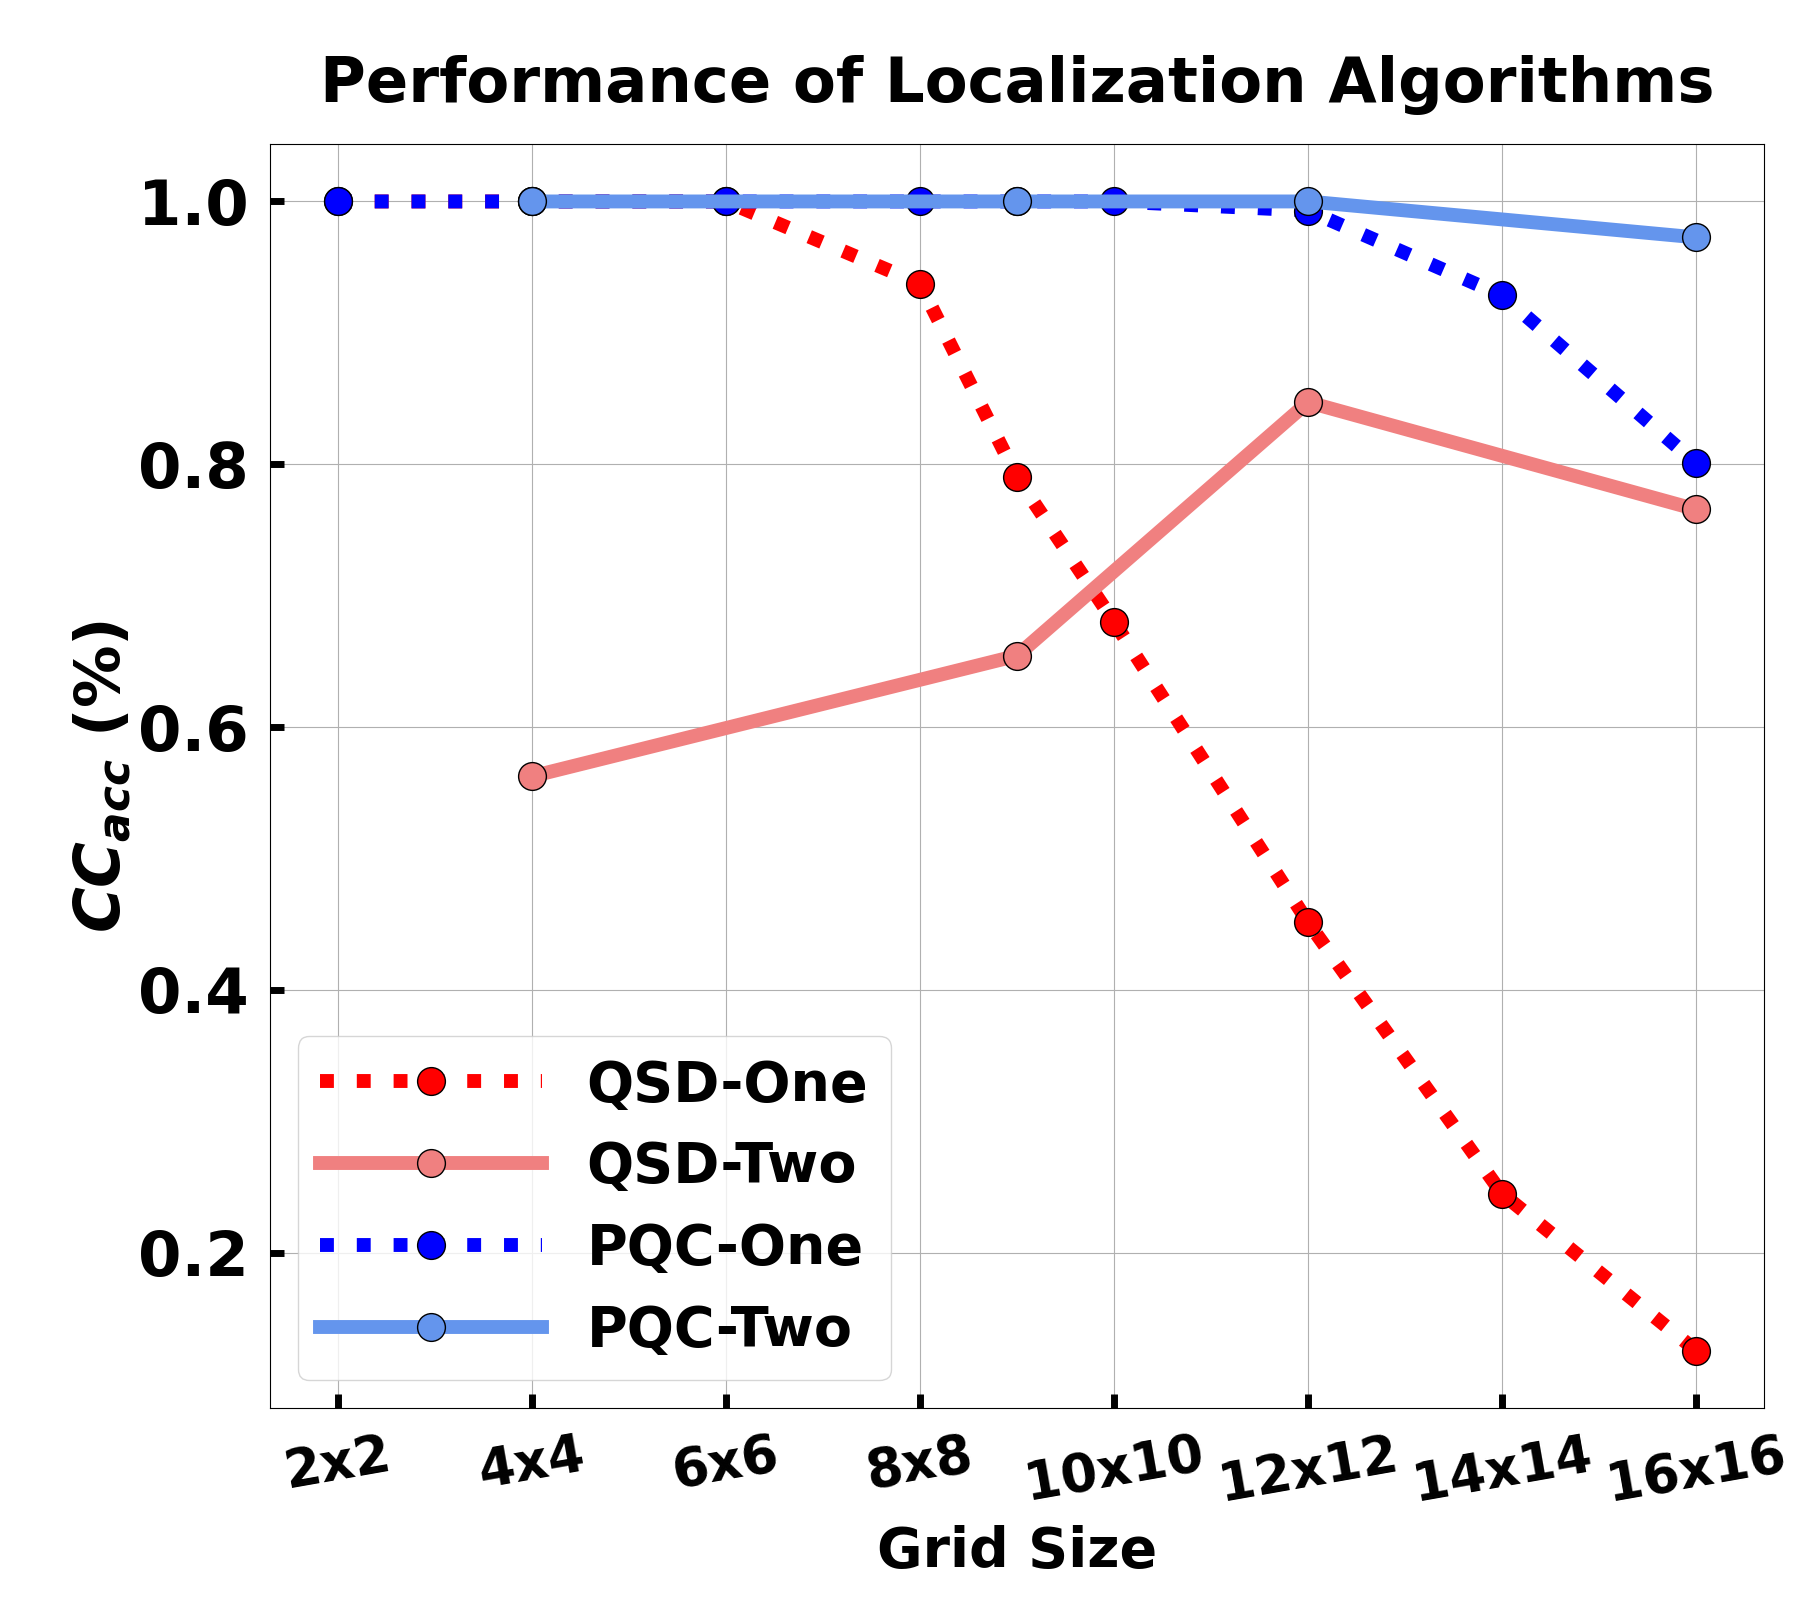
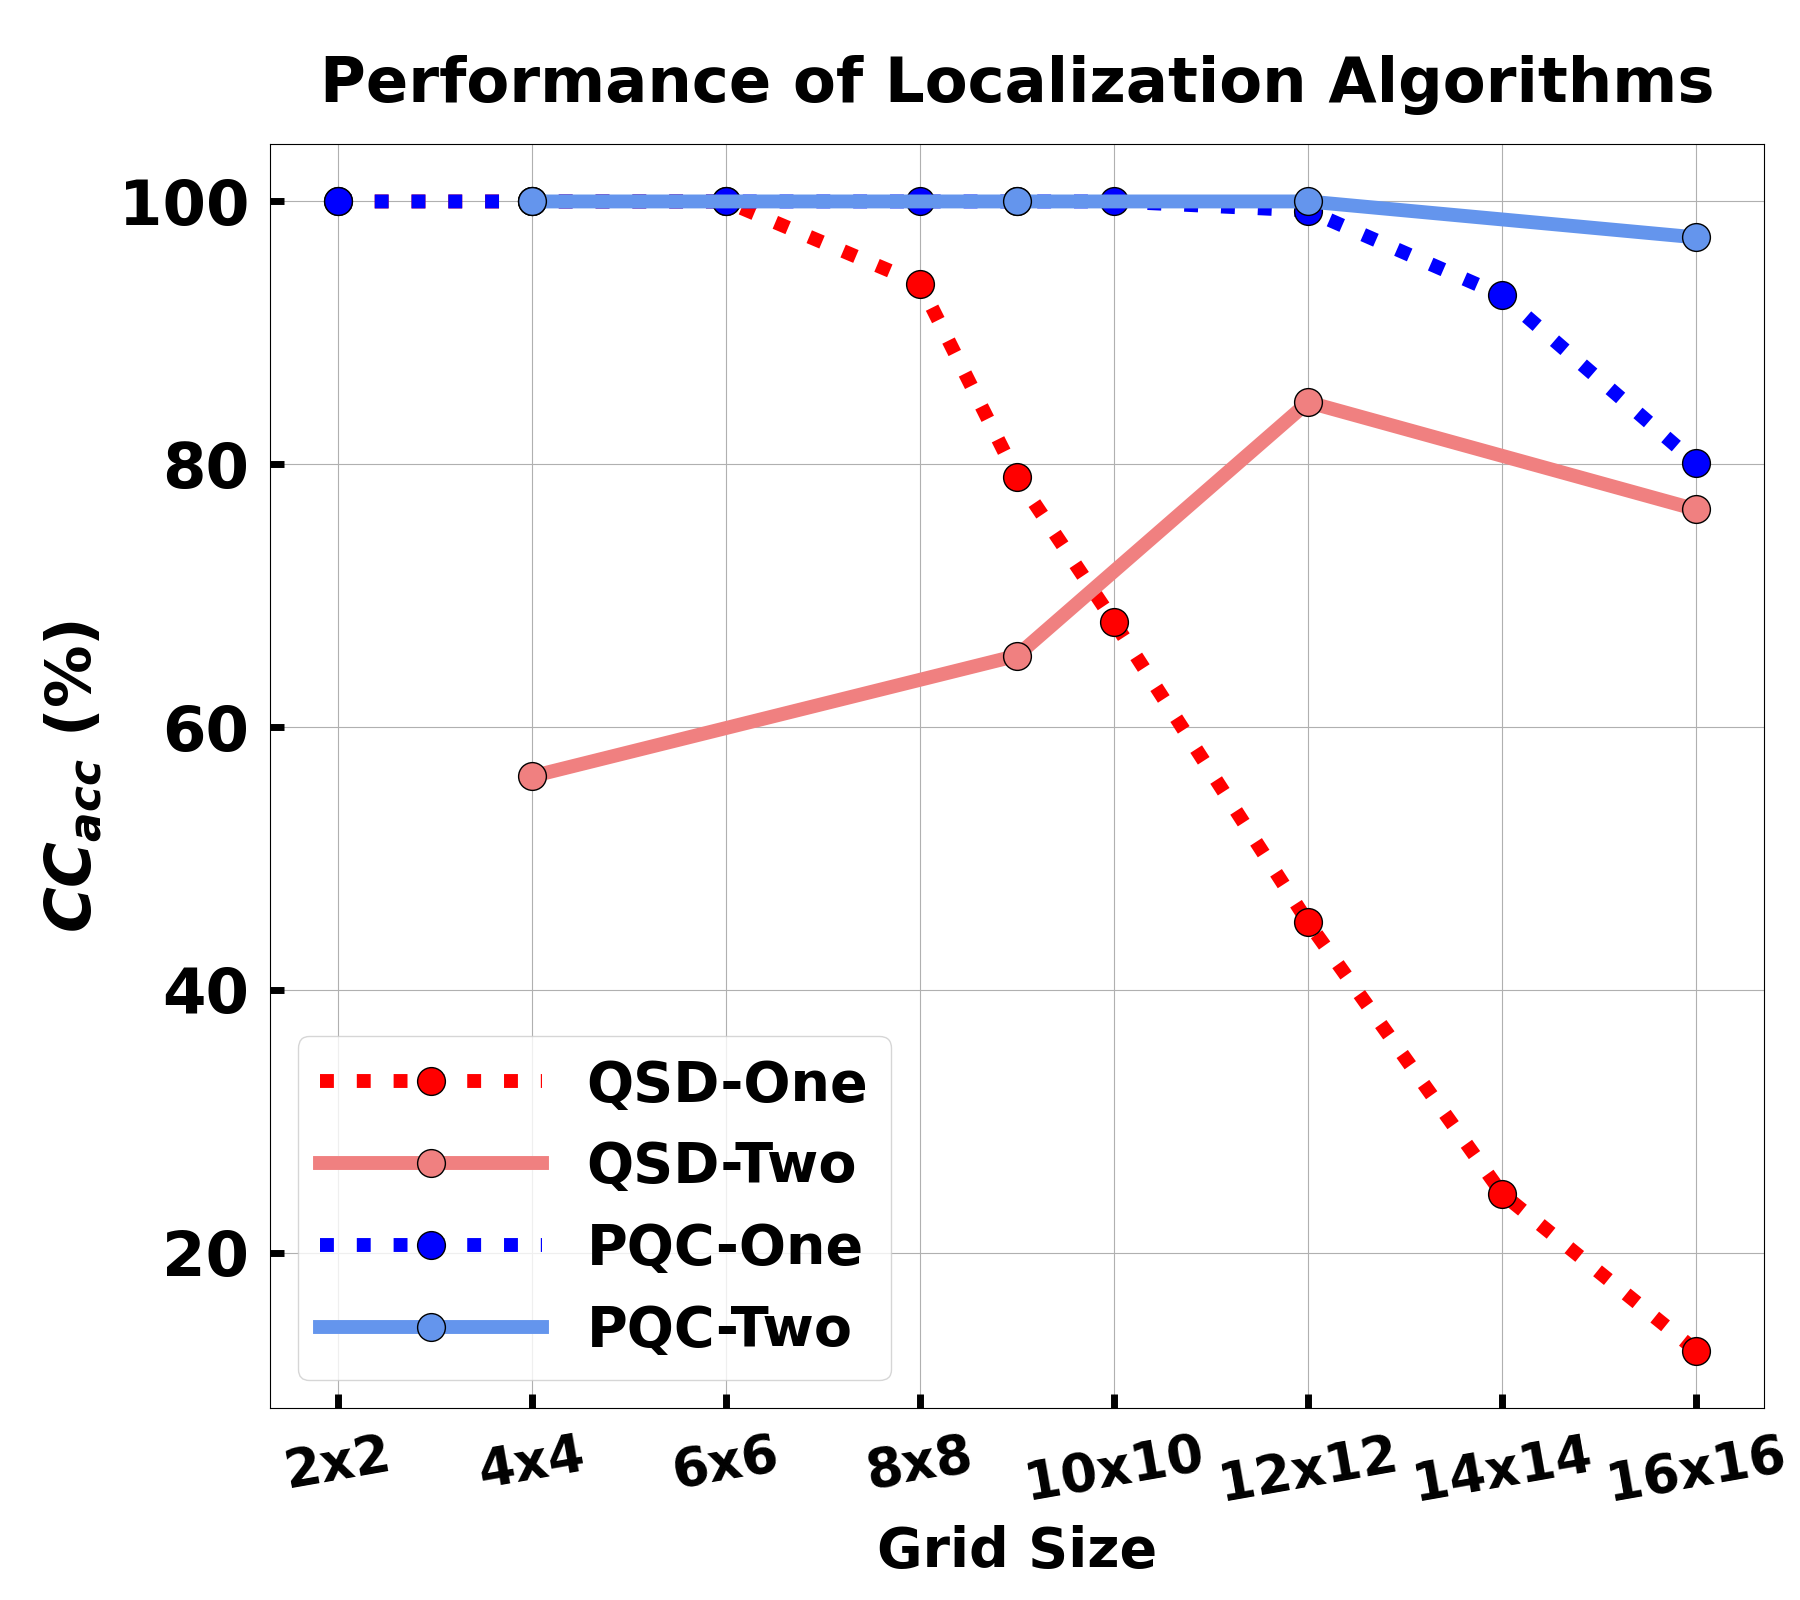
update plot

diff --git a/plot.py b/plot.py
@@ -252,8 +252,8 @@ class Plot:
             print_table.append([x] + tmp_list)
         print(tabulate.tabulate(print_table, headers=['Grid Length'] + onelevel_methods))
         arr = np.array(print_table)
-        povmloc_one = arr[:, 1]
-        qml_c_one   = arr[:, 2]
+        povmloc_one = arr[:, 1] * 100
+        qml_c_one   = arr[:, 2] * 100
         X_one       = arr[:, 0]
 
         print('\nTwolevel')
@@ -263,8 +263,8 @@ class Plot:
             print_table.append([x] + tmp_list)
         print(tabulate.tabulate(print_table, headers=['Grid Length'] + twolevel_methods))
         arr = np.array(print_table)
-        povmloc   = arr[:, 1]
-        qml_c_two = arr[:, 2]
+        povmloc   = arr[:, 1] * 100
+        qml_c_two = arr[:, 2] * 100
         X_two     = arr[:, 0]
 
         # step 2: plotting
@@ -285,7 +285,7 @@ class Plot:
         ax1.tick_params(axis='x', pad=15, direction='in', length=10, width=5, labelsize=38, rotation=10)
         ax1.tick_params(axis='y', pad=15, direction='in', length=10, width=5)
         CC_acc = "$CC_{acc}$"
-        ax1.set_ylabel(f'{CC_acc} (%)')
+        ax1.set_ylabel(f'{CC_acc} (%)', labelpad=10)
         # ax1.set_ylim([0, 40])
         ax1.set_title(f'Performance of Localization Algorithms', pad=30, fontsize=45, fontweight='bold')
         fig.savefig(figname)
@@ -415,11 +415,11 @@ def runtime():
 
 if __name__ == '__main__':
 
-    continuous_varygrid()
+    # continuous_varygrid()
     # continuous_varysensornum()
     # localization_error_cdf()
 
-    # discrete_varygrid()
+    discrete_varygrid()
     # discrete_varysensornum()
 
 
